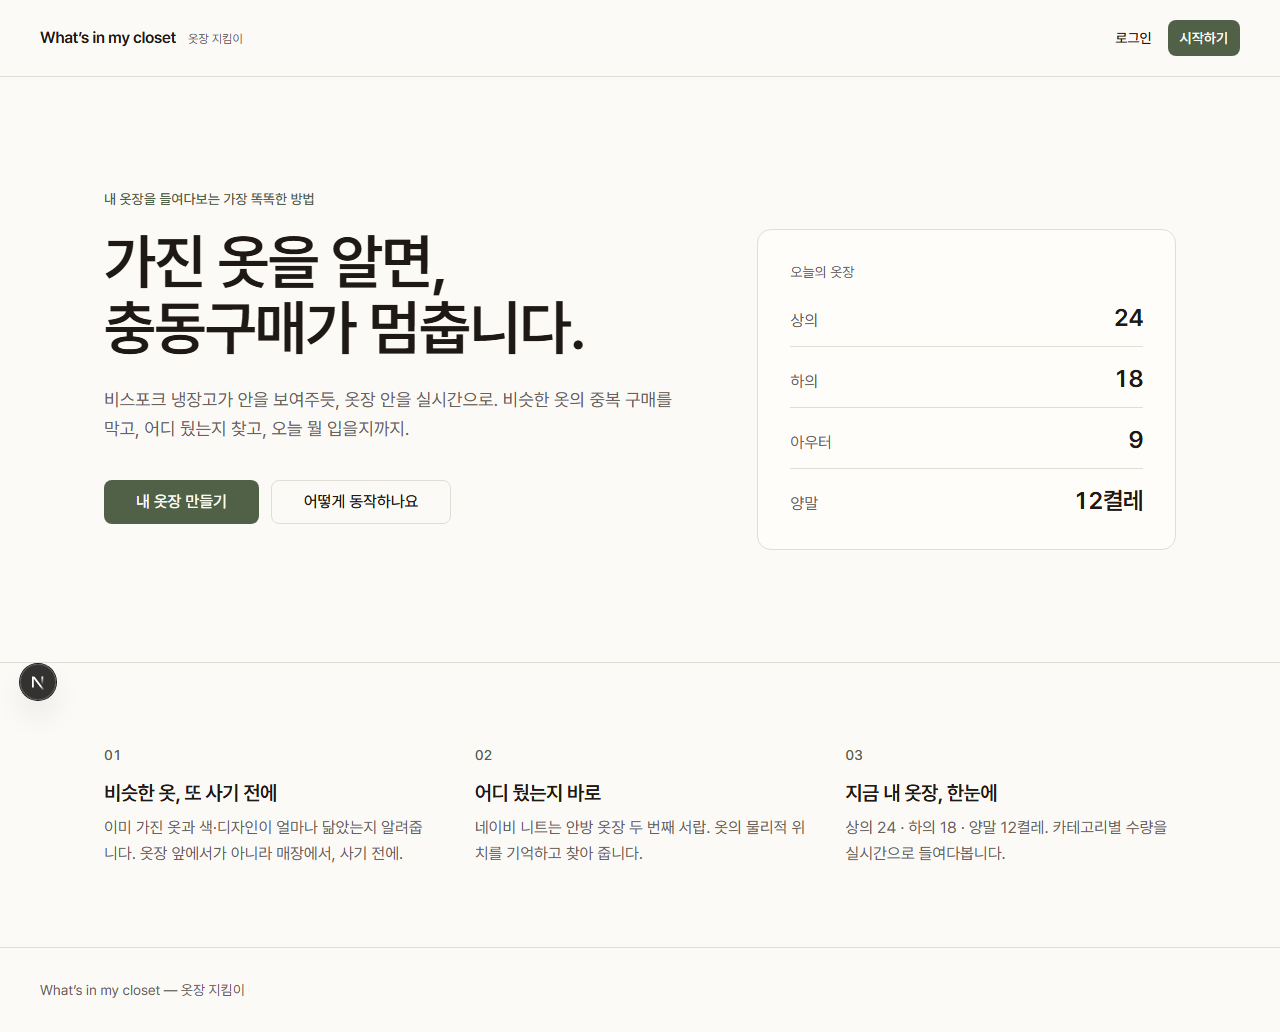
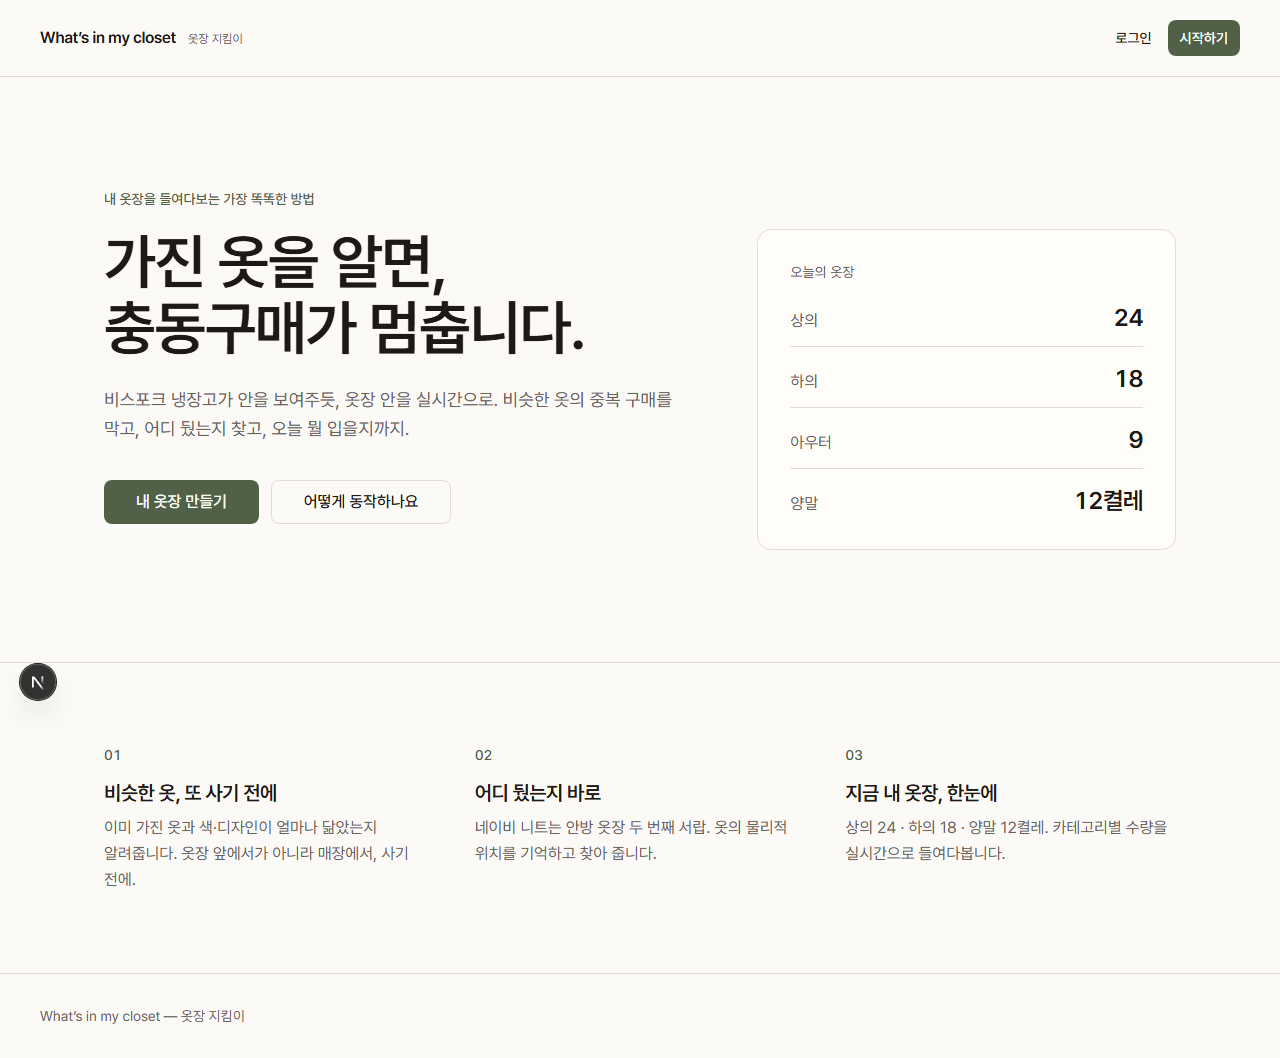
fix(ui): Korean line-breaking + Korean file picker
- globals.css: word-break: keep-all + overflow-wrap so Korean wraps at word/
  phrase boundaries, never mid-word (long tokens still wrap). Verified across
  mobile (390) and desktop (1280).
- PhotoInput: Korean-labeled file picker (사진 선택 / 선택된 파일 없음) replacing
  the browser-native English Choose File text, across the 4 upload forms.
- Refresh landing visual golden for the new wrapping.

diff --git a/apps/web/src/components/photo-input.tsx b/apps/web/src/components/photo-input.tsx
@@ -1,0 +1,49 @@
+"use client";
+
+import { useState } from "react";
+
+/**
+ * Korean-labeled file picker. The native <input type="file"> shows English
+ * ("Choose File / No file chosen") that can't be relabeled via CSS, so we hide
+ * it (sr-only — still focusable + form-submittable + Playwright-targetable) and
+ * drive it from a styled <label>, showing the chosen filename(s) in Korean.
+ */
+export function PhotoInput({
+  name,
+  multiple = false,
+  required = false,
+}: {
+  name: string;
+  multiple?: boolean;
+  required?: boolean;
+}) {
+  const [label, setLabel] = useState("");
+  return (
+    <label className="flex cursor-pointer items-center gap-3 rounded-md border bg-background p-2 text-sm transition-colors hover:border-foreground/30">
+      <span className="shrink-0 rounded-md border bg-secondary px-3 py-1.5 font-medium">
+        사진 선택
+      </span>
+      <span className="truncate text-muted-foreground">
+        {label || (multiple ? "여러 장 선택 가능" : "선택된 파일 없음")}
+      </span>
+      <input
+        type="file"
+        name={name}
+        accept="image/*"
+        multiple={multiple}
+        required={required}
+        onChange={(e) => {
+          const fs = e.target.files;
+          setLabel(
+            !fs || fs.length === 0
+              ? ""
+              : fs.length === 1
+                ? (fs[0]?.name ?? "")
+                : `${fs.length}장 선택됨`,
+          );
+        }}
+        className="sr-only"
+      />
+    </label>
+  );
+}

diff --git a/apps/web/src/components/bulk-capture-form.tsx b/apps/web/src/components/bulk-capture-form.tsx
@@ -3,6 +3,7 @@
 import { useActionState } from "react";
 import { bulkAddAction, type BulkState } from "@/server/actions/bulk";
 import { Button } from "@/components/ui/button";
+import { PhotoInput } from "@/components/photo-input";
 
 const initial: BulkState = {
   status: "idle",
@@ -17,14 +18,7 @@ export function BulkCaptureForm() {
   return (
     <div className="flex flex-col gap-5">
       <form action={action} className="flex flex-col gap-3">
-        <input
-          type="file"
-          name="images"
-          accept="image/*"
-          multiple
-          required
-          className="text-sm file:mr-3 file:rounded-md file:border file:bg-secondary file:px-3 file:py-1.5 file:text-sm"
-        />
+        <PhotoInput name="images" multiple required />
         <Button type="submit" size="lg" disabled={pending}>
           {pending ? "올리는 중…" : "여러 벌 한번에 올리기"}
         </Button>

diff --git a/apps/web/src/app/globals.css b/apps/web/src/app/globals.css
@@ -122,5 +122,14 @@
     font-family: var(--font-sans);
     -webkit-font-smoothing: antialiased;
     text-rendering: optimizeLegibility;
+    /* Korean typography: break lines at word/phrase boundaries (spaces·particles),
+       never mid-word. Long unbreakable tokens (URLs, codes) still wrap. */
+    word-break: keep-all;
+    overflow-wrap: break-word;
+  }
+  /* Long unbreakable strings (emails, hashes, URLs) shown in code/mono shouldn't
+     overflow their container on mobile. */
+  code {
+    overflow-wrap: anywhere;
   }
 }

diff --git a/apps/web/src/components/add-garment-form.tsx b/apps/web/src/components/add-garment-form.tsx
@@ -7,6 +7,7 @@ import {
 } from "@/server/actions/garments";
 import { Button } from "@/components/ui/button";
 import { CameraCapture } from "@/components/camera-capture";
+import { PhotoInput } from "@/components/photo-input";
 
 type Cat = {
   id: number;
@@ -35,13 +36,7 @@ export function AddGarmentForm({ taxonomy = [] }: { taxonomy?: Cat[] }) {
   return (
     <>
       <form action={action} className="flex flex-col gap-4">
-        <input
-          type="file"
-          name="image"
-          accept="image/*"
-          required
-          className="text-sm file:mr-3 file:rounded-md file:border file:bg-secondary file:px-3 file:py-1.5 file:text-sm"
-        />
+        <PhotoInput name="image" required />
         <CameraCapture targetInputName="image" />
         <input name="name" placeholder="이름 (선택)" className={inputClass} />
 

diff --git a/apps/web/src/components/detect-capture-form.tsx b/apps/web/src/components/detect-capture-form.tsx
@@ -7,6 +7,7 @@ import {
   type DetectState,
 } from "@/server/actions/detect-capture";
 import { Button } from "@/components/ui/button";
+import { PhotoInput } from "@/components/photo-input";
 
 const initial: DetectState = { status: "idle" };
 
@@ -16,13 +17,7 @@ export function DetectCaptureForm() {
   return (
     <div className="flex flex-col gap-5">
       <form action={action} className="flex flex-col gap-3">
-        <input
-          type="file"
-          name="image"
-          accept="image/*"
-          required
-          className="text-sm file:mr-3 file:rounded-md file:border file:bg-secondary file:px-3 file:py-1.5 file:text-sm"
-        />
+        <PhotoInput name="image" required />
         <Button type="submit" size="lg" disabled={pending}>
           {pending ? "옷 찾는 중…" : "옷 찾기"}
         </Button>

diff --git a/apps/web/src/components/scan-tag-form.tsx b/apps/web/src/components/scan-tag-form.tsx
@@ -8,6 +8,7 @@ import {
   type ScanTagState,
 } from "@/server/actions/scan-tag";
 import { Button } from "@/components/ui/button";
+import { PhotoInput } from "@/components/photo-input";
 
 const initial: ScanTagState = { status: "idle", message: "" };
 
@@ -47,13 +48,7 @@ export function ScanTagForm() {
   return (
     <div className="flex flex-col gap-5">
       <form action={action} className="flex flex-col gap-3">
-        <input
-          type="file"
-          name="image"
-          accept="image/*"
-          required
-          className="text-sm file:mr-3 file:rounded-md file:border file:bg-secondary file:px-3 file:py-1.5 file:text-sm"
-        />
+        <PhotoInput name="image" required />
         <Button type="submit" size="lg" disabled={pending}>
           {pending ? "읽는 중…" : "택 사진 읽기"}
         </Button>